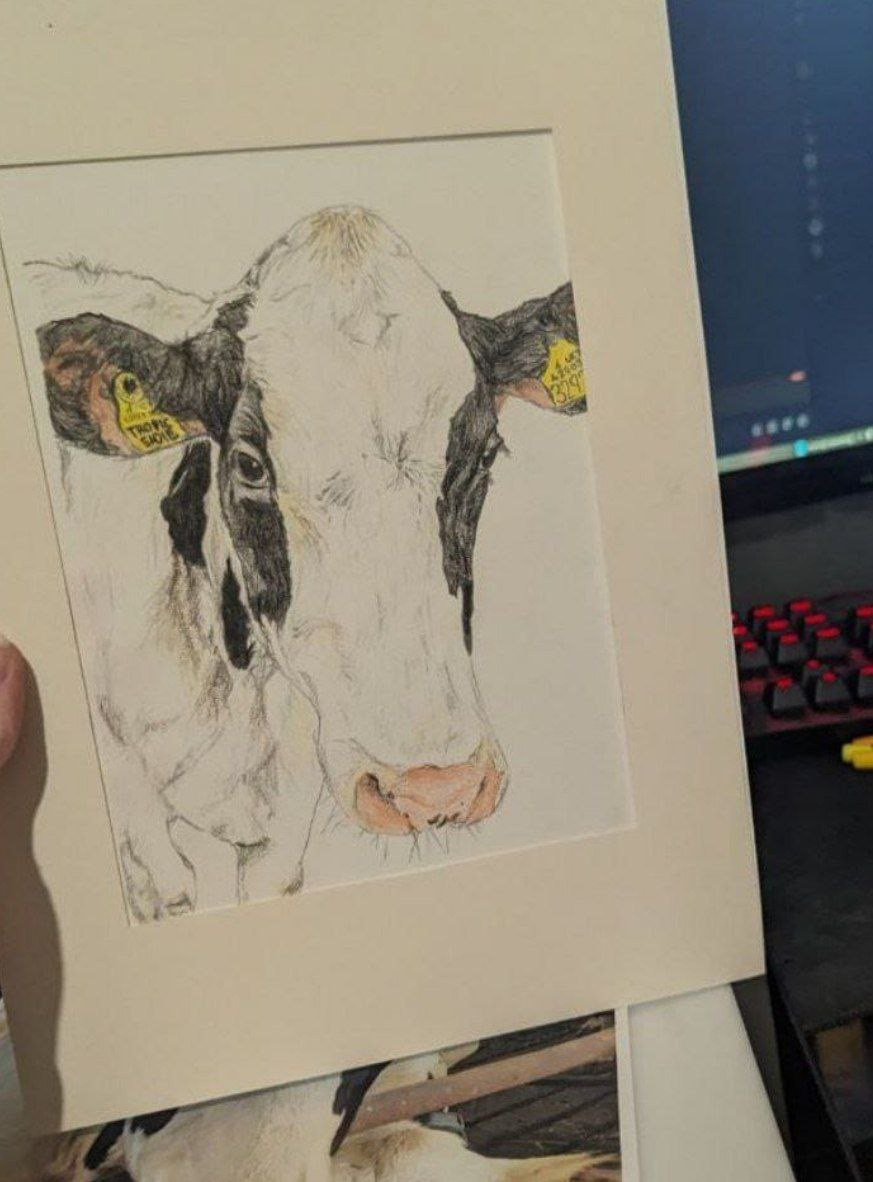
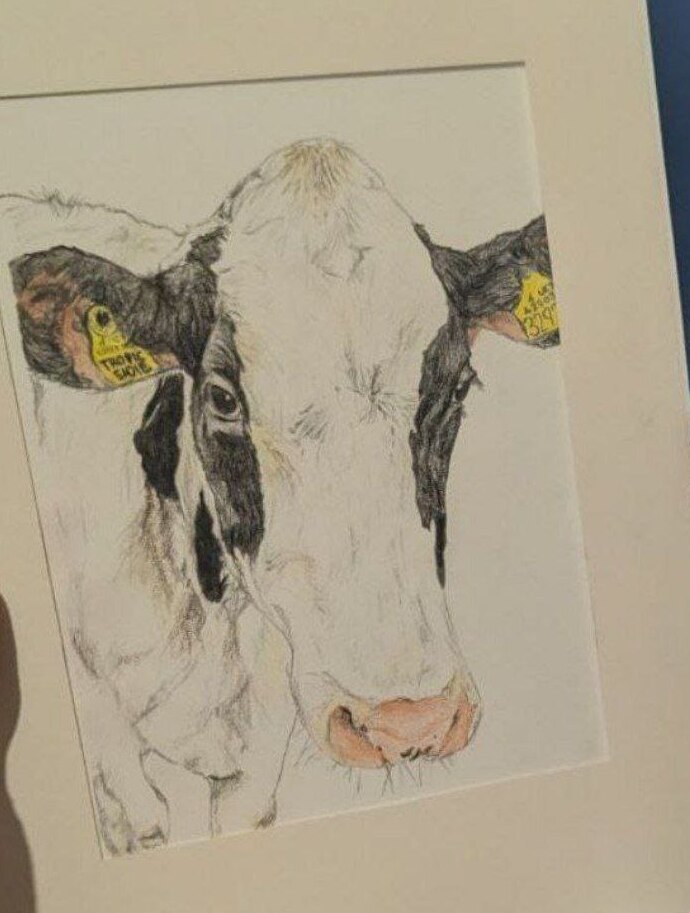
crop images on portfolio, change wording on index/about, add new resources and buttons to links and change structure, add 4 new entries to stream

diff --git a/src/stream.html b/src/stream.html
@@ -23,10 +23,24 @@
     <main>
       <h3>Stream</h3>
       <p>A by-chance-chronological stream of thoughts; a small but growing collection of things that I like or find
-        poignant, such as novel excerpts, Bible verses and songs.</p>
+        poignant, such as novel excerpts, Bible verses, and songs.</p>
       <p>A collection of beautiful things.</p>
       <p><img src="img/bunnyheart.gif"></p>
       <br>
+      <h5>2026/11/09 - 21:20</h5>
+      <p>"Give up your self, and you will find your real self. Lose your life and you will save it. Submit to death, death of your ambitions and favourite wishes every day and death of your whole body in the end: submit with every fibre of your being, and you will find eternal life. Keep back nothing.</p>
+      <p>Nothing that you have not given away will ever be really yours. Nothing in you that has not died will ever be raised from the dead. Look for yourself, and you will find in the long run only hatred, loneliness, despair, rage, ruin, and decay. But look for Christ and you will find Him, and with Him everything else thrown in."</p>
+      <p><em> — C.S. Lewis, 'Mere Christianity'</p></em>
+      <h5>2026/11/09 - 20:50</h5>
+      <p>"Forsan et haec olim meminisse iuvabit."</p>
+      <p>A joy it will be one day, perhaps, to remember even this.</p>
+      <p><em> — Virgil, 'Aeneid'</em></p>
+      <h5>2026/11/09 - 20:46</h5>
+      <p>"If a man should ascend alone into heaven and behold clearly the structure of the universe and the beauty of the stars, there would be no pleasure for him in the awe-inspiring sight, which would have filled him with delight if he had had someone to whom he could describe what he had seen. Thus nature, loving nothing solitary, always strives for some sort of support, and man's best support is a very dear friend."</p>
+      <p><em> — Cicero, 'De Amicitia'</em><p>
+      <h5>2026/11/09 - 20:40</h5>
+      <p>"[I]t struck me, as my automaton knees went up and down, that I simply did not know a thing about my darling's mind and that quite possibly, behind the awful juvenile clichés, there was in her a garden and a twilight, and a palace gate — dim and adorable regions which happened to be lucidly and absolutely forbidden to me, in my polluted rags and miserable convulsions[.]"</p>
+      <p><em> — Vladimir Nabokov, 'Lolita'</p></em>
       <h5>2026/09/23 — 18:28</h5>
       <p>"A girl stood before him in midstream, alone and still, gazing out to sea. She seemed like one whom magic had
         changed into the likeness of a strange and beautiful seabird. Her long slender bare legs were delicate as a
@@ -51,10 +65,6 @@
         of life, to throw open before him in an instant of ecstasy the gates of all the ways of error and glory. On and
         on and on and on!"</p>
       <p><em> — James Joyce, 'A Portrait of the Artist as a Young Man'</em></p>
-      <h5>2026/08/20 — 23:05</h5>
-      <p><a href="https://youtu.be/RduzF6SQy5Q?si=hrlgwBN5iq321I8h">Osao San — Totorro</a></p>
-      <h5>2026/08/20 — 22:59</h5>
-      <p><a href="https://youtu.be/1J3-ZOdp3g0?si=lcWnhHamShm9aWyG">Yes! I Am A Long Way from Home — Mogwai</a></p>
       <h5>2026/08/18 — 21:07</h5>
       <p>"The prevailing attitude, so cheerful and forward-looking on the surface, derives from a narcissistic
         impoverishment of the psyche and also from an inability to ground our needs in the experience of satisfaction
@@ -62,7 +72,7 @@
         wonder why those needs never seem to be satisfied."</p>
       <p><em> — Christopher Lasch, 'The Culture of Narcissism'</em></p>
       <h5>2026/08/18 — 20:52</h5>
-      <p>And they said <a href="/img/stardew.png">romance was dead...</a></p>
+      <p>And they said <a href="/img/stardew.png">romance was dead</a>...</p>
       <h5>2026/08/09 — 15:22</h5>
       <p><a href="https://youtu.be/bFdcjfYMupE?si=6omBVMCaKuluG9Af">The Hill — Markéta Irglová</a></p>
       <h5>2026/08/09 — 15:06</h5>
@@ -126,9 +136,6 @@
         difference between these feats and ordinary translation — and let me not suggest that our present tools are up
         to "ordinary translation" — can only be surmised, but one suspects that it is like the little abyss between zero
         and one."</p>
-      <h5>2024/11/22 — 18:09</h5>
-      <p>Random update: I got a job in a Christian bookstore recently. The literature girl dream has finally been
-        achieved. Life is good.</p>
       <h5>2024/11/07 — 12:34</h5>
       <p>“...with a rush of feeling he felt that this must be happiness. As soon as the thought came to him, he fought
         it back, blaming the whiskey. The very idea was as dangerous as presumptive speech: happiness could not be

diff --git a/src/links.html b/src/links.html
@@ -22,9 +22,7 @@
 
     <main>
       <h3>Links</h3>
-      <p>I don't update this very often, so some links may be dead. These are sites I find interesting for one reason or
-        another.</p>
-      <p>I've increased the display sizing of these slightly.</p>
+      <p>A combination of personal websites I enjoy and other resources I find helpful, all currently related to technology. Please do inform me if you find any links are dead.</p>
       <img src="img/bunnies.png">
       <br>
       <br>
@@ -83,26 +81,31 @@
           <a class="button-link" target="_blank" href="https://vihmu.neocities.org/">
             <img src="img/vihmu.png" alt="vihmu button">
           </a>
+	  <a class="button-link" target="_blank" href="https://sor.neocities.org/">
+            <img src="img/sors.jpg" alt="sor button">
+          </a>
+	  <a class="button-link" target="_blank" href="https://orison.neocities.org/">
+            <img src="img/orison.png" alt="orison button">
+          </a>
+	  <a class="button-link" target="_blank" href="https://discreteideas.neocities.org/">
+            <img src="img/discreteideas.png" alt="discreteideas button">
+          </a>
+
       </div>
 
-      <p><b><a target="_blank" href="https://colexdev.neocities.org/">colexdev</a></b>: A great example of
-        digital minimalism, with a focus on nutrition, philosophy, technology, and more.</p>
-      <p><b><a target="_blank" href="https://mental-labour.neocities.org/">mental labour</a></b>: Philosophy and a
-        minimalistic design.</p>
-      <p><b><a target="_blank" href="https://sor.neocities.org/">sor</a></b>: Lots of really helpful technology-related
-        information and resources. I like the focus on suckless software.</p>
-      <p><b><a target="_blank" href="https://orison.neocities.org/">orison</a></b>: He's a retired Catholic priest.
-        Don't tell me that's not cool...</p>
-
+      <p><b><a target="_blank" href="https://colexdev.neocities.org/">colexdev</a></b> / <b><a target="_blank" href="https://mental-labour.neocities.org/">mental labour</a></b></p>
       <br>
 
       <h4>Resources</h4>
       
-      <p><b><a target="_blank" href="https://voidlinux.org/">Void Linux</a></b>: My preferred Linux distribution.</p>
-      <p><b><a target="_blank" href="https://suckless.org/">suckless</a></b>: Minimalistic software that sucks less.</p>
-      <p><b><a target="_blank" href="https://jstris.jezevec10.com/">jstris</a></b>: Online competitive Tetris that you can play in your browser.</p>
+      <p><b><a target="_blank" href="https://voidlinux.org/">Void Linux</a></b>: My preferred Linux distribution. Stable rolling release and independent. I like to do a base live image install and then add a window manager rather than installing with xfce.</p>
+      <p><b><a target="_blank" href="https://suckless.org/">suckless</a></b>: Minimalistic software that sucks less. I use dwm and st with some patches, such as scroll and sixel support.</p>
+      <p><b><a target="_blank" href="https://jstris.jezevec10.com/">jstris</a></b>: Online competitive Tetris that you can play in your browser. Minimalistic and fast.</p>
       <p><b><a target="_blank" href="https://cmus.github.io/">cmus</a></b>: Terminal-based music player.</p>
+      <p><b><a target="_blank" href="https://vimium.github.io/">vimium</a></b>: Browser extension that aids keyboard-driven webpage navigation.</p>
       <p><b><a target="_blank" href="https://grapheneos.org/">GrapheneOS</a></b>: Privacy-oriented mobile OS. Currently intended for use with Pixel phones.</p>
+      <p><b><a target="_blank" href="https://www.4chan-x.net/">4chan X</a></b>: Script that makes 4chan more pleasant to browse. It provides hover previews for images and quotes, image expansion, filtering additions to help you filter out degeneracy, and more.</p>
+      <p><b><a target="_blank" href="https://github.com/KevinParnell/OneeChan">OneeChan</a></b>: Script that I use to make 4chan look nicer.</p>
 
       <br>
       <br>

diff --git a/src/about.html b/src/about.html
@@ -33,16 +33,18 @@
         consumption. In a world where this kind of unthinking state is so commonplace, this website is a tiny way I try
         to avoid that particular pitfall.</p>
       <br>
-      <p>I am a Christian undergraduate humanities student from Ireland, and I work in a specialty bookstore.</p>
+      <p>I am a Catholic humanities student from Ireland.<p>
+      <p>I spend most of my time working in a bookstore, writing for my degree, going to Mass and studying the Bible, tinkering with Linux, reading in spurts, badly paraphrasing C.S. Lewis, watching war films, trying to win over stray cats, and (often fruitlessly) attempting to improve my Tetris skills.</p>
       <p>The topics that are of most interest to me, and which I like to write about here, are:</p>
       <ul>
         <li>Literature;</li>
         <li>Philosophy;</li>
+	<li>Theology;</li>
         <li>Minimalism;</li>
         <li>Holistic healthcare;</li>
         <li>Traditional art;</li>
         <li>FOSS and digital privacy;</li>
-        <li>Classical education methods.</li>
+        <li>Classical and alternative education methods.</li>
       </ul>
       <p>I'm not fond of how other social media platforms function due to their lack of individuality and their
         insistence on short-form content, so I see Neocities as a kind of refreshing refuge.</p>

diff --git a/src/index.html b/src/index.html
@@ -24,13 +24,13 @@
       <h3>Home</h3>
       <p>Hello; welcome to my personal website.</p>
       <p>This site serves as an outlet for any thoughts and views I feel are significant enough to share, which
-        primarily happen to be about literature. I also share some of my art and media reviews here, as well as quotes
+        primarily happen to be about literature. I also share some of my art, other articles, and media reviews here, as well as quotes
         and other things I find beauty and meaning in.</p>
       <p>I hope you can find some meaning in something here, too.</p>
       <p><img src="img/paw.gif"></p>
       <br>
       <details>
-        <summary><small><em>Last updated: 2026/10/19 (YYYY/MM/DD)</em></small></summary>
+        <summary><small><em>Last updated: 2026/11/09 (YYYY/MM/DD)</em></small></summary>
         <small>
           <ul>
             <li><a href="https://github.com/invertedvegan/literaturegirl/commits/main/">GitHub changelog</a></li>
